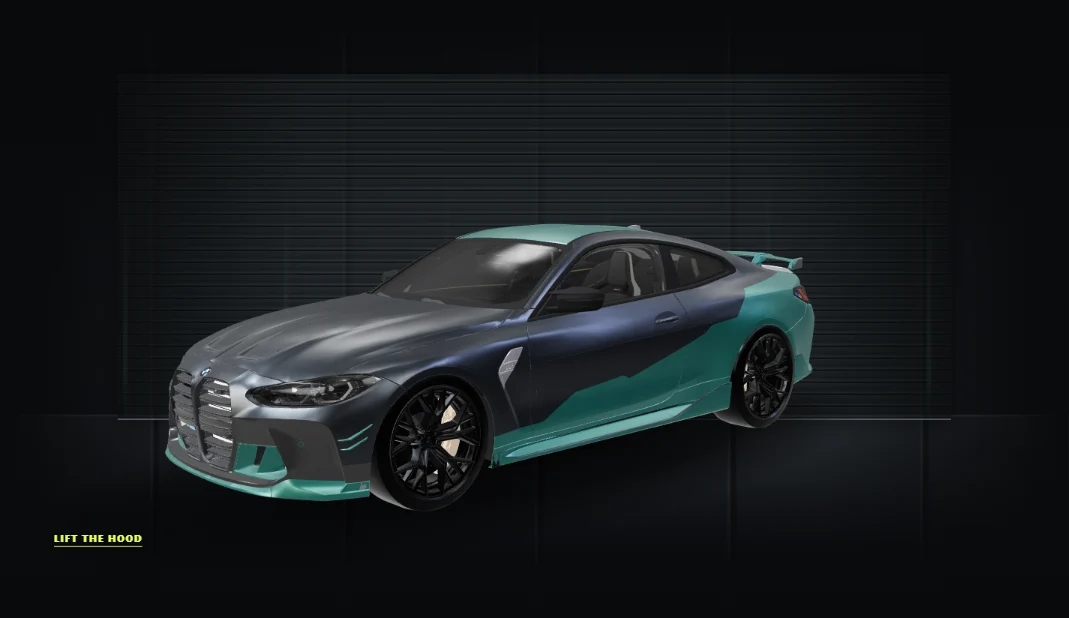
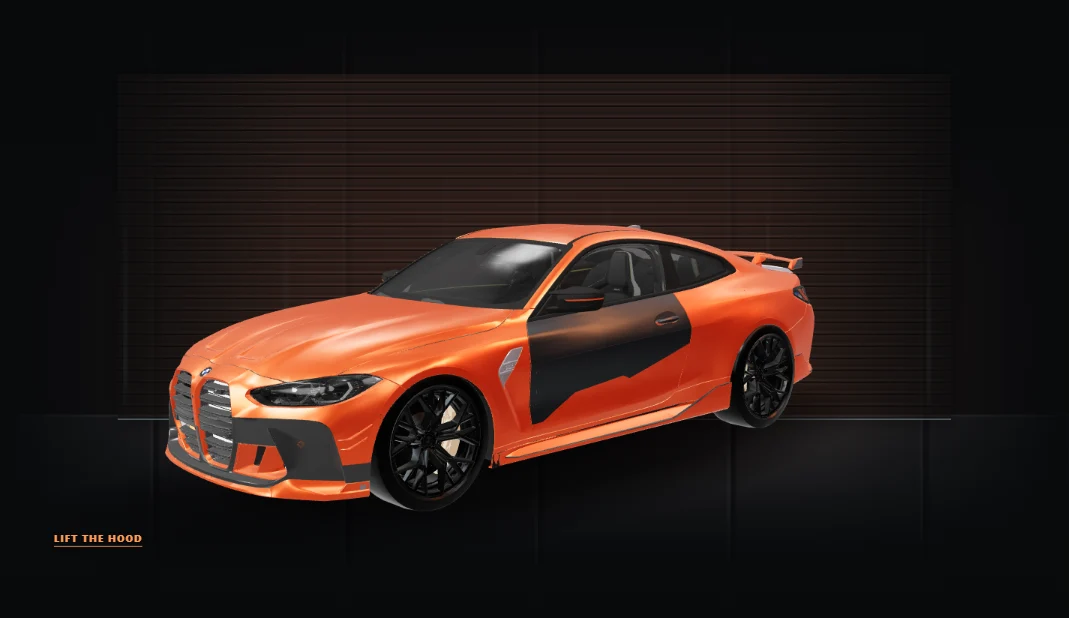
Style BMW garage in metallic copper and amber

Changed region(s): [[0.1543, 0.3382, 0.7717, 0.8301], [0.0309, 0.8608, 0.1543, 0.8916]]

diff --git a/style.css b/style.css
@@ -1,20 +1,20 @@
-:root{color-scheme:dark;--accent:#e9ff52;--base:#101112;--line:#303234;--muted:#b0b5b9;--gutter:clamp(20px,5vw,80px);font:16px/1.55 Inter,system-ui,sans-serif;background:var(--base);color:#f4f5f1;scroll-behavior:smooth}
+:root{color-scheme:dark;--accent:#ff9b52;--base:#140f0e;--line:#303234;--muted:#b0b5b9;--gutter:clamp(20px,5vw,80px);font:16px/1.55 Inter,system-ui,sans-serif;background:var(--base);color:#f4f5f1;scroll-behavior:smooth}
 *{box-sizing:border-box}body{margin:0}a{color:inherit;text-decoration:none}button,input,select,textarea{font:inherit}button{cursor:pointer}button:disabled{cursor:default;opacity:.5}button,a,input,select,textarea{outline-offset:4px} :focus-visible{outline:2px solid var(--accent)}[hidden]{display:none!important}
 .skip{position:absolute;z-index:20;left:1rem;top:-10rem;background:var(--base);padding:1rem}.skip:focus{top:1rem}
 .top{height:76px;padding:0 var(--gutter);display:flex;justify-content:space-between;align-items:center;position:relative;z-index:4;border-bottom:1px solid var(--line);background:var(--base)}
 .brand{display:inline-flex;align-items:center;gap:11px;font-weight:850;letter-spacing:.09em;white-space:nowrap}.top nav{display:flex;align-items:center;gap:clamp(15px,3vw,44px);font-size:.9rem}
 .button{display:inline-flex;align-items:center;justify-content:center;min-height:46px;border:1px solid var(--accent);background:var(--accent);color:#111;font-weight:800;padding:10px 19px;border-radius:4px}.button:hover:not(:disabled){filter:brightness(.9)}.button.compact{min-height:40px;padding:7px 14px}
-.hero{height:calc(100svh - 76px);min-height:540px;max-height:1100px;position:relative;isolation:isolate;overflow:hidden;background:#08090b}.garage{position:absolute;inset:0;overflow:hidden;background:radial-gradient(ellipse at 51% 55%,#3d4347 0%,#1c2227 38%,#0a0d0f 73%)}.architecture{position:absolute;inset:0;pointer-events:none;background:linear-gradient(to bottom,#08090b 0%,transparent 33%,transparent 78%,#08090b 100%),linear-gradient(90deg,#090a0c 0%,transparent 23%,transparent 77%,#090a0c 100%),repeating-linear-gradient(90deg,transparent 0 14%,#84919718 14.1% 14.3%,#0006 14.4% 14.8%,transparent 15% 18%),linear-gradient(to bottom,transparent 67%,#747e8570 67.2%,#363b4070 67.6%,#101317 91%)}.architecture::before{content:"";position:absolute;inset:26% 3% 0;background:repeating-linear-gradient(90deg,transparent 0 9%,#a9c6d578 9.1% 9.4%,transparent 9.6% 16%);mask-image:linear-gradient(transparent,#000 45%,transparent 57%);opacity:.42}
-#car,#poster,#markers{position:absolute;inset:0;width:100%;height:100%}#car{display:block;touch-action:pan-y pinch-zoom;cursor:grab}#car:active{cursor:grabbing}#poster{object-fit:contain;pointer-events:none}#markers{pointer-events:none}.marker{pointer-events:auto;position:absolute;transform:translate(-50%,-50%);min-width:44px;height:44px;border:0;background:none;color:#141609;font-size:22px;padding:0;display:grid;place-items:center}.marker span{display:grid;place-items:center;width:31px;height:31px;border-radius:50%;background:var(--accent);box-shadow:0 0 0 4px #e9ff5233,0 1px 15px #000a}.marker:hover span,.marker:focus-visible span{scale:1.14}
+.hero{height:calc(100svh - 76px);min-height:540px;max-height:1100px;position:relative;isolation:isolate;overflow:hidden;background:#08090b}.garage{position:absolute;inset:0;overflow:hidden;background:radial-gradient(ellipse at 51% 55%,#553228 0%,#261914 38%,#0a0d0f 73%)}.architecture{position:absolute;inset:0;pointer-events:none;background:linear-gradient(to bottom,#08090b 0%,transparent 33%,transparent 78%,#08090b 100%),linear-gradient(90deg,#090a0c 0%,transparent 23%,transparent 77%,#090a0c 100%),repeating-linear-gradient(90deg,transparent 0 14%,#84919718 14.1% 14.3%,#0006 14.4% 14.8%,transparent 15% 18%),linear-gradient(to bottom,transparent 67%,#747e8570 67.2%,#363b4070 67.6%,#101317 91%)}.architecture::before{content:"";position:absolute;inset:26% 3% 0;background:repeating-linear-gradient(90deg,transparent 0 9%,#a9c6d578 9.1% 9.4%,transparent 9.6% 16%);mask-image:linear-gradient(transparent,#000 45%,transparent 57%);opacity:.42}
+#car,#poster,#markers{position:absolute;inset:0;width:100%;height:100%}#car{display:block;touch-action:pan-y pinch-zoom;cursor:grab}#car:active{cursor:grabbing}#poster{object-fit:contain;pointer-events:none}#markers{pointer-events:none}.marker{pointer-events:auto;position:absolute;transform:translate(-50%,-50%);min-width:44px;height:44px;border:0;background:none;color:#141609;font-size:22px;padding:0;display:grid;place-items:center}.marker span{display:grid;place-items:center;width:31px;height:31px;border-radius:50%;background:var(--accent);box-shadow:0 0 0 4px color-mix(in srgb,var(--accent) 20%,transparent),0 1px 15px #000a}.marker:hover span,.marker:focus-visible span{scale:1.14}
 .hero-title{position:absolute;top:clamp(22px,6vh,65px);left:var(--gutter);pointer-events:none}.eyebrow{color:var(--accent);font-weight:750;font-size:.82rem;text-transform:uppercase;letter-spacing:.19em;margin:0 0 12px}.hero-title .eyebrow span{display:inline-block;margin:0 4px;width:15px;height:1px;background:currentColor;vertical-align:middle}h1,h2,p{margin-top:0}h1,h2{line-height:.94;letter-spacing:-.055em}h1{margin:0;font-size:clamp(3.8rem,10vw,10rem);font-weight:950}h1 span{display:block;font-size:.245em;font-weight:660;letter-spacing:.27em;margin-top:.55em;color:#d1d5d8}
 #load-state{position:absolute;left:50%;top:53%;transform:translate(-50%,-50%);text-align:center;width: min(90%, 320px);pointer-events:none;background:#101112db;padding:8px;border-radius:4px}
 .car-controls{position:absolute;left:50%;bottom:87px;transform:translateX(-50%);display:flex;align-items:center;gap:12px;font-size:.82rem;white-space:nowrap;background:#111416db;border:1px solid #ffffff32;border-radius:5px;padding:3px}.car-controls button{border:0;color:#fff;background:transparent;width:42px;height:42px;font-size:26px}.car-controls button:hover:not(:disabled){color:var(--accent);background:#ffffff16}
 .hero-bottom{position:absolute;bottom:0;left:var(--gutter);right:var(--gutter);border-top:1px solid #ffffff30;display:flex;justify-content:space-between;align-items:center;padding:16px 0;gap:14px}.hero-bottom a{font-weight:700;display:flex;gap:10px;align-items:center}.demo{color:var(--muted);font-size:.75rem;font-weight:700;letter-spacing:.12em}.scroll-mark{border:1px solid var(--accent);height:22px;width:14px;border-radius:9px}.scroll-mark::before{content:"";display:block;width:2px;height:5px;background:var(--accent);margin:4px auto}
 .section{padding:clamp(58px,8vw,116px) var(--gutter);border-bottom:1px solid var(--line)}h2{font-size:clamp(2.6rem,6vw,6rem);margin-bottom:22px}.intro,p:not(.eyebrow),footer{color:var(--muted)}.service-grid{display:grid;grid-template-columns:repeat(3,1fr);gap:1px;background:var(--line);border:1px solid var(--line);margin:34px 0 24px}.service-grid button{background:var(--base);color:#fff;border:0;min-height:174px;text-align:left;padding:24px;display:flex;flex-direction:column;gap:10px;justify-content:center}.service-grid button:hover{background:#252629}.service-grid strong{font-size:1.25rem}.service-grid span{color:var(--muted)}.text-link{color:var(--accent);font-weight:720;text-decoration:underline;text-underline-offset:5px}
-.split{display:grid;grid-template-columns:1fr 1fr;align-items:start;gap:clamp(24px,7vw,110px)}#booking{background:#17181a}form,label{display:grid;gap:7px}form{gap:15px}label{font-weight:650}label span{color:var(--muted);display:contents;font-weight:400}input,select,textarea{color:#fff;background:var(--base);border:1px solid #4c4f52;border-radius:4px;padding:10px;width:100%;min-width:0;min-height:46px}textarea{resize:vertical}.fields{display:grid;grid-template-columns:1fr 1fr;gap:14px}#booking-result:empty{display:none}address{font-style:normal;margin-bottom:9px}.actions{display:flex;flex-wrap:wrap;gap:16px;align-items:center}.map{min-height:265px;border:1px solid var(--line);display:grid;place-items:center;background:repeating-linear-gradient(146deg,#151718 0 24px,#25282a 25px 26px,#151718 28px 65px)}.map iframe{border:0;width:100%;height:330px}
+.split{display:grid;grid-template-columns:1fr 1fr;align-items:start;gap:clamp(24px,7vw,110px)}#booking{background:#201614}form,label{display:grid;gap:7px}form{gap:15px}label{font-weight:650}label span{color:var(--muted);display:contents;font-weight:400}input,select,textarea{color:#fff;background:var(--base);border:1px solid #4c4f52;border-radius:4px;padding:10px;width:100%;min-width:0;min-height:46px}textarea{resize:vertical}.fields{display:grid;grid-template-columns:1fr 1fr;gap:14px}#booking-result:empty{display:none}address{font-style:normal;margin-bottom:9px}.actions{display:flex;flex-wrap:wrap;gap:16px;align-items:center}.map{min-height:265px;border:1px solid var(--line);display:grid;place-items:center;background:repeating-linear-gradient(146deg,#151718 0 24px,#25282a 25px 26px,#151718 28px 65px)}.map iframe{border:0;width:100%;height:330px}
 .reviews h2{font-size:clamp(2.4rem,5vw,4.2rem)}footer{padding:27px var(--gutter);display:flex;align-items:center;justify-content:space-between;gap:16px;flex-wrap:wrap;font-size:.85rem}footer a:hover{color:var(--accent)}
 dialog{max-width:min(520px,calc(100% - 32px));border:1px solid #4c4f52;border-radius:8px;color:#fff;background:var(--base);padding:32px}dialog::backdrop{background:#020304b9}dialog h2{font-size:clamp(2rem,6vw,3.5rem)}.close{display:grid;place-items:center;position:absolute;right:8px;top:7px;width:44px;height:44px;background:none;border:0;color:#fff;font-size:26px}
-@media(max-width:760px){.split{grid-template-columns:1fr}.service-grid{grid-template-columns:1fr 1fr}.top{height:64px}.top nav a:not(.button){display:none}.hero{height:calc(100svh - 64px);min-height:530px}.garage{background:radial-gradient(ellipse at 51% 54%,#3d4347,#1c2227 42%,#090b0f 74%)}}
+@media(max-width:760px){.split{grid-template-columns:1fr}.service-grid{grid-template-columns:1fr 1fr}.top{height:64px}.top nav a:not(.button){display:none}.hero{height:calc(100svh - 64px);min-height:530px}.garage{background:radial-gradient(ellipse at 51% 54%,#553228,#261914 42%,#090b0f 74%)}}
 @media(max-width:420px){.brand{font-size:.8rem}.service-grid,.fields{grid-template-columns:1fr}.service-grid button{min-height:120px}.hero-bottom a{font-size:.84rem}.demo{font-size:.64rem}.hero-title{top:35px}}
 @media(prefers-reduced-motion:reduce){:root{scroll-behavior:auto}}
 
@@ -31,7 +31,7 @@ dialog{max-width:min(520px,calc(100% - 32px));border:1px solid #4c4f52;border-ra
   transform-origin: top;
   background:
     linear-gradient(90deg, #080a0bcc, transparent 23%, transparent 77%, #080a0bcc),
-    repeating-linear-gradient(0deg, #090b0c 0 1px, #303639 2px, #171b1e 6px, #24292b 16px);
+    repeating-linear-gradient(0deg, #090b0c 0 1px, #47302a 2px, #241916 6px, #36231d 16px);
   border-bottom: 2px solid #68747c;
   box-shadow: 0 5px 25px #0009;
   opacity: .69;
@@ -68,7 +68,7 @@ dialog{max-width:min(520px,calc(100% - 32px));border:1px solid #4c4f52;border-ra
   border: 1px solid var(--accent);
   background: #141918e8;
   color: var(--accent);
-  box-shadow: 0 0 0 4px #e9ff5226, 0 1px 12px #000b;
+  box-shadow: 0 0 0 4px color-mix(in srgb,var(--accent) 15%,transparent), 0 1px 12px #000b;
 }
 .marker small {
   display: none;
@@ -79,7 +79,7 @@ dialog{max-width:min(520px,calc(100% - 32px));border:1px solid #4c4f52;border-ra
   translate: 0 -50%;
   background: #121615e8;
   color: #f1f5ed;
-  border: 1px solid #e9ff5261;
+  border: 1px solid color-mix(in srgb,var(--accent) 38%,transparent);
   border-radius: 2px;
   padding: 3px 7px;
   white-space: nowrap;
@@ -112,7 +112,7 @@ dialog{max-width:min(520px,calc(100% - 32px));border:1px solid #4c4f52;border-ra
   flex: 0 0 25px;
   height: 25px;
   border-radius: 50%;
-  border: 1px solid #e9ff5261;
+  border: 1px solid color-mix(in srgb,var(--accent) 38%,transparent);
   color: var(--accent);
   font-size: 17px;
 }

diff --git a/viewer.js b/viewer.js
@@ -42,7 +42,7 @@ export async function initViewer(services, openService, showFallback) {
     scene.add(light);
   }
   addLight(0xe4f1ff, 2.2, -3, 6, 3);
-  addLight(0xbdcaff, 1.1, 4, 4, -4);
+  addLight(0xff995a, 1.35, 4, 4, -4);
   addLight(0xffe2b1, 0.65, 1, 2, 6);
 
   const shadowCanvas = document.createElement('canvas');
@@ -73,11 +73,13 @@ export async function initViewer(services, openService, showFallback) {
   car.traverse((object) => {
     const material = object.material;
     if (!material) return;
-    if (['Meshesbody151Mtl', 'Mesheslivery1Mtl'].includes(material.name)) {
-      material.map = null;
-      material.color.set('#326a62');
-      material.metalness = 0.68;
-      material.roughness = 0.33;
+    if (object.name === 'Object_6' || ['Meshesbody151Mtl', 'Mesheslivery1Mtl'].includes(material.name)) {
+      object.material = material.clone();
+      object.material.map = null;
+      object.material.color.set('#d94c14');
+      object.material.metalness = 0.61;
+      object.material.roughness = 0.28;
+      return;
     }
     if (['Meshesm8rim1Mtl', 'Meshesm8rim0011Mtl', 'Mesheszx1Mtl', 'Mesheschrome51Mtl'].includes(material.name)) {
       material.color.set('#34383c');

diff --git a/index.html b/index.html
@@ -6,7 +6,7 @@
 <title>PHANTOM AUTO | Auto Repair in Elgin, IL — Studio Demo</title>
 <meta name="description" content="Explore an interactive auto repair studio demo for Elgin, IL. Engine repair, brake service, vehicle diagnostics and maintenance.">
 <meta name="robots" content="noindex,follow">
-<meta name="theme-color" content="#101112">
+<meta name="theme-color" content="#140f0e">
 <meta property="og:type" content="website">
 <meta property="og:title" content="PHANTOM AUTO | Auto Repair in Elgin, IL">
 <meta property="og:description" content="Explore auto repair services through an interactive BMW M4 Competition. A PHNX Web Studio demo.">

diff --git a/config.js b/config.js
@@ -3,8 +3,8 @@ export const shop = {
   logo: '',
   phone: '',
   address: '1447 Holmes Rd, Elgin, IL 60123, USA',
-  accent: '#e9ff52',
-  surface: '#101112',
+  accent: '#ff9b52',
+  surface: '#140f0e',
   verified: false,
   reviewsUrl: '',
   bookingEndpoint: '',
